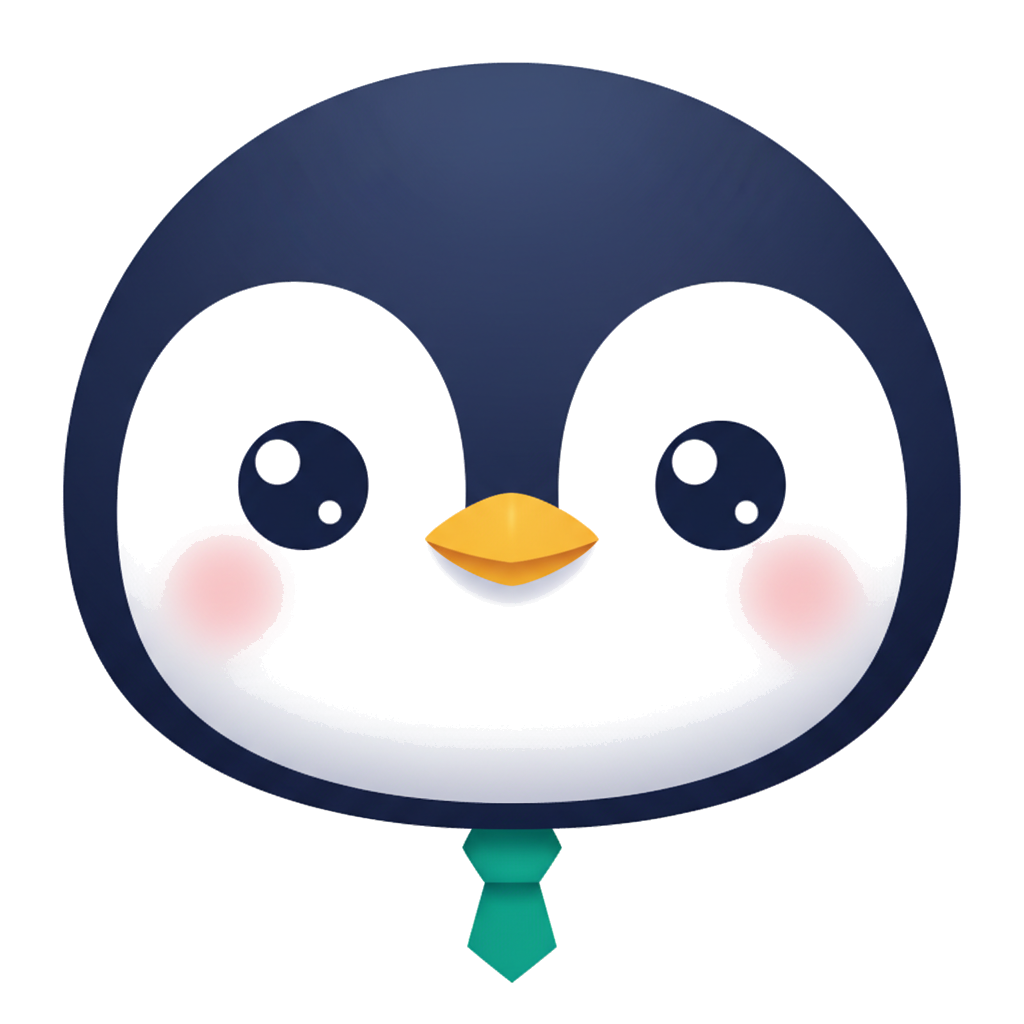
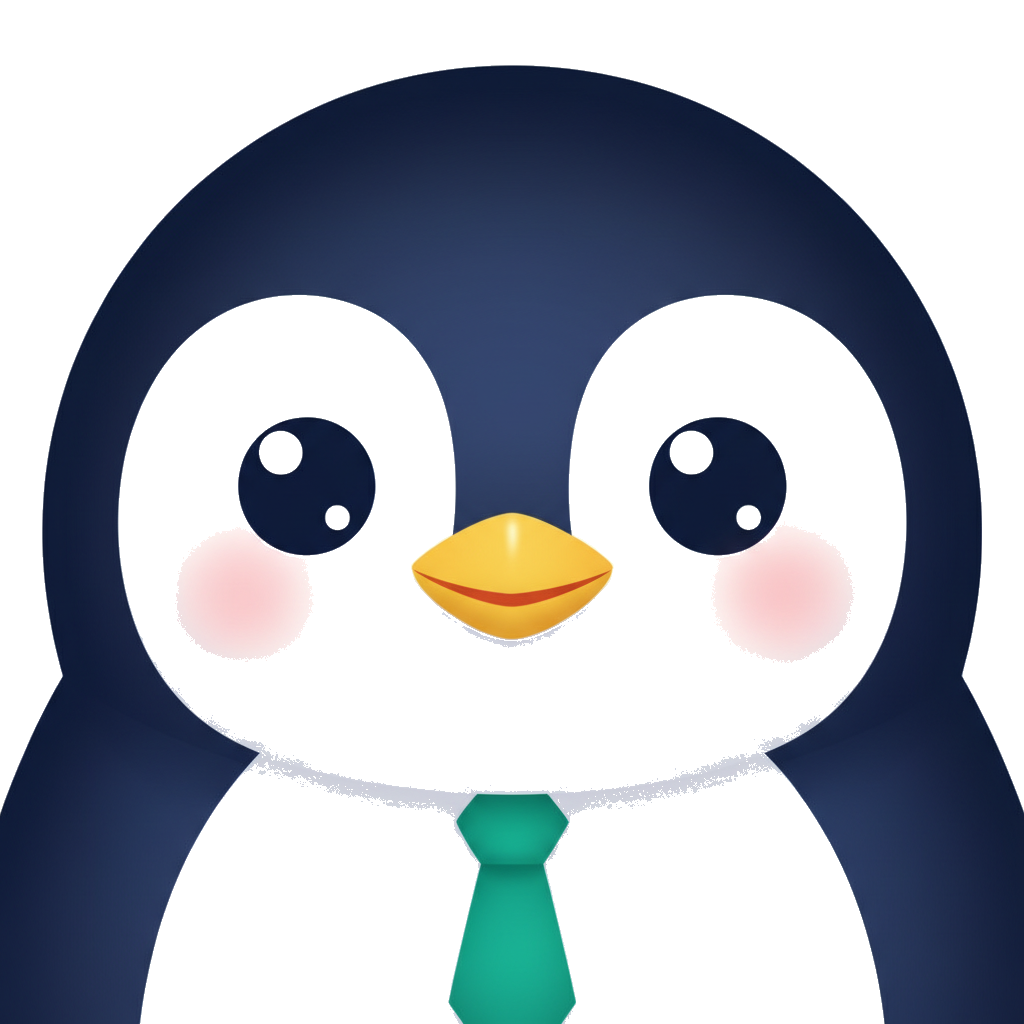
fix: ペンギン透過修正 + カレオくん手書きフォント(Yomogi) + テキスト拡大
- ペンギンPNG: グレー背景のみ除去、白い腹は保持
- アプリアイコン: 透過対応で再生成
- チャットボタン: 背景を白に変更
- カレオくん: Google Fonts Yomogi(手書き風)採用、テキスト4xl〜5xlに拡大
- アニメーション: タイプライター→clip-pathによる手書き風スライドインに変更

diff --git a/src/app/globals.css b/src/app/globals.css
@@ -361,29 +361,34 @@
   word-spacing: 0.1em;
 }
 
-/* Handwriting-style text with writing animation */
+/* Handwriting-style text */
 .handwriting-text {
-  font-family: 'Comic Sans MS', 'Chalkboard SE', 'Segoe Script', cursive;
+  font-family: var(--font-yomogi), 'Comic Sans MS', 'Chalkboard SE', cursive;
 }
 
+/* Handwriting reveal animation using clip-path */
 .handwriting-animate {
-  font-family: 'Comic Sans MS', 'Chalkboard SE', 'Segoe Script', cursive;
+  font-family: var(--font-yomogi), 'Comic Sans MS', 'Chalkboard SE', cursive;
   display: inline-block;
-  overflow: hidden;
-  white-space: nowrap;
-  border-right: 2px solid #00c896;
-  animation: handwrite 1.2s steps(5) 0.5s forwards, blink-caret 0.6s step-end 3 forwards;
-  width: 0;
+  animation: handwrite-reveal 1.8s ease-out 0.8s both;
+  opacity: 0;
 }
 
-@keyframes handwrite {
-  from { width: 0; }
-  to { width: 5em; }
-}
-
-@keyframes blink-caret {
-  from, to { border-color: transparent; }
-  50% { border-color: #00c896; }
+@keyframes handwrite-reveal {
+  0% {
+    opacity: 0;
+    clip-path: inset(0 100% 0 0);
+    filter: blur(2px);
+  }
+  30% {
+    opacity: 1;
+    filter: blur(0.5px);
+  }
+  100% {
+    opacity: 1;
+    clip-path: inset(0 0% 0 0);
+    filter: blur(0);
+  }
 }
 
 /* Reduce motion (theme toggle) */

diff --git a/src/app/layout.tsx b/src/app/layout.tsx
@@ -1,5 +1,5 @@
 import type { Metadata, Viewport } from "next";
-import { Geist } from "next/font/google";
+import { Geist, Yomogi } from "next/font/google";
 import "./globals.css";
 import { Sidebar } from "@/components/layout/Sidebar";
 import { BottomNav } from "@/components/layout/BottomNav";
@@ -10,6 +10,7 @@ import { CommandPalette } from "@/components/CommandPalette";
 import { ThemeProvider } from "@/components/ThemeProvider";
 
 const geist = Geist({ subsets: ["latin"], variable: "--font-geist-sans" });
+const yomogi = Yomogi({ weight: "400", subsets: ["latin"], variable: "--font-yomogi" });
 
 const APP_URL = "https://careoai.jp";
 
@@ -130,7 +131,7 @@ export default function RootLayout({ children }: { children: React.ReactNode }) 
           dangerouslySetInnerHTML={{ __html: JSON.stringify(jsonLd) }}
         />
       </head>
-      <body className={`${geist.variable} font-sans antialiased bg-gray-50 dark:bg-[#0f1117]`}>
+      <body className={`${geist.variable} ${yomogi.variable} font-sans antialiased bg-gray-50 dark:bg-[#0f1117]`}>
         <ThemeProvider>
           <ToastProvider>
             <ActivityTracker />

diff --git a/src/components/landing/MobileLandingPage.tsx b/src/components/landing/MobileLandingPage.tsx
@@ -472,7 +472,7 @@ export function MobileLandingPage({ recentPosts = [], userCount = 0, reviews = [
             <span className="text-[#00c896]">全部<br /><span className="whitespace-nowrap">知ってる。</span></span>
           </h1>
           <div className="absolute -right-4 bottom-0 flex flex-col items-center">
-            <p className="text-sm text-[#00c896] mb-0.5 select-none handwriting-animate -rotate-3">カレオくん</p>
+            <p className="text-2xl text-[#00c896] mb-1 select-none handwriting-animate -rotate-3">カレオくん</p>
             {/* eslint-disable-next-line @next/next/no-img-element */}
             <img
               src="/kareo/kareo-default.png"

diff --git a/src/components/landing/LandingPage.tsx b/src/components/landing/LandingPage.tsx
@@ -598,7 +598,7 @@ export function LandingPage({ recentPosts = [], userCount = 0, reviews = [] }: {
               {/* Glow behind mascot */}
               <div className="absolute w-80 h-80 rounded-full bg-[#00c896]/12 blur-3xl" />
               {/* 手書き風の名前 */}
-              <p className="relative text-2xl xl:text-3xl text-[#00c896] mb-2 select-none handwriting-animate -rotate-3">
+              <p className="relative text-4xl xl:text-5xl text-[#00c896] mb-3 select-none handwriting-animate -rotate-3">
                 カレオくん
               </p>
               <img

diff --git a/src/components/landing/LPChatBot.tsx b/src/components/landing/LPChatBot.tsx
@@ -228,10 +228,10 @@ export function LPChatBot({
         style={{
           background: open
             ? "linear-gradient(135deg, #00a87e 0%, #008f6a 100%)"
-            : "#0d1b2e",
+            : "#ffffff",
           boxShadow: open
             ? "0 4px 20px rgba(0, 200, 150, 0.4)"
-            : "0 4px 20px rgba(0, 0, 0, 0.3)",
+            : "0 4px 20px rgba(0, 0, 0, 0.15)",
         }}
         aria-label={open ? "チャットを閉じる" : "カレオに質問する"}
       >
